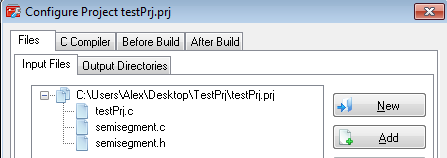
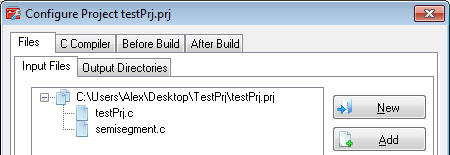
[c_uc_recommends]: Header fix

Changed region(s): [[0.0, 0.0, 1.0, 1.0]]

diff --git a/windows_os/c_uc_recommendations.md b/windows_os/c_uc_recommendations.md
@@ -24,7 +24,7 @@
 <img src="c_uc_recommendations_pics/screen1.png">
 </p>
 
-- добавить новый `.с` файл и назвать его в соответствии с названием драйвера или алгоритма (части алгоритма), а также добавить заголовочный файл `.h` с таким же названием.
+- добавить новый `.с` файл и назвать его в соответствии с названием драйвера или алгоритма (части алгоритма).
 
 <p align="center">
 <img src="c_uc_recommendations_pics/screen2.png">
@@ -53,7 +53,7 @@ void semiseg_init( void )
 
 > В названии функции всегда есть две части: **название модуля** и **сама функция**. Сделано это с целью разграничения, так как функция инициализации (а может и другая функция) может присутствовать сразу в нескольких модулях.
 
-При правильном использовании модульности для каждого модуля (например, `semisegment.c`) создаётся файл заголовка (обычно назван также, для нашего примера `semisegment.h`), в который размещаются прототипы функций, открытые для использования другими модулями (или алгоритмами).
+При правильном использовании модульности для каждого модуля (например, `semisegment.c`) создаётся файл заголовка (обычно назван также, для нашего примера `semisegment.h`), в который размещаются прототипы функций, открытые для использования другими модулями (или алгоритмами). Для CodeVisionAVR рекомендуется создавать файл `.h` не через конфигурацию проекта, а просто создать файл в папке рядом с `.c` файлом. 
 
 > Ведь внутри модуля могут быть и закрытые функции, которые по задумке нельзя использовать снаружи модуля.
 
